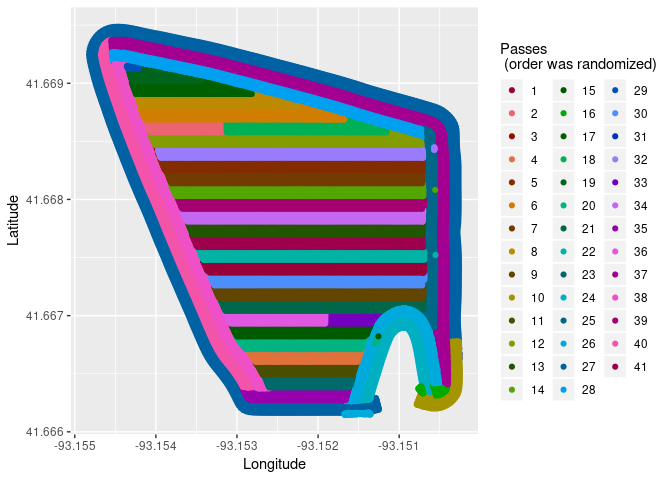
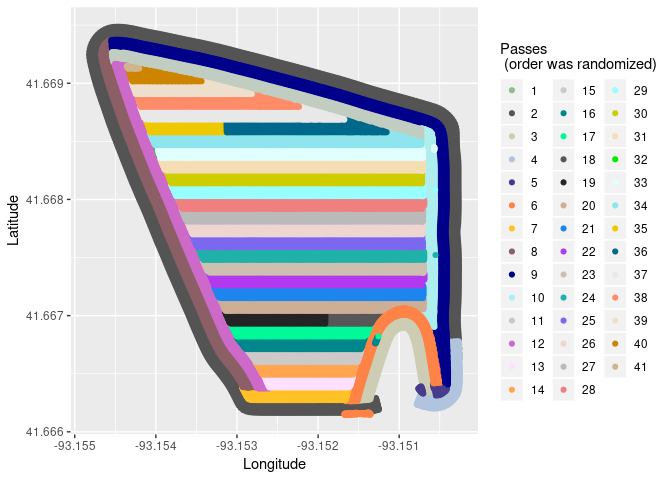
Improving obs per pass calculation and discarding pass_scramble for visualization.

diff --git a/Process_script.md b/Process_script.md
@@ -46,11 +46,11 @@ about 30 seconds to import the original shapefile.
 
 ``` r
 # Importing the shapefile
-seeding_shapefile <- readOGR(dsn = files[5], layer = "Merriweather Farms-JT-01-Corn", pointDropZ = TRUE)
+seeding_shapefile <- readOGR(dsn = files[4], pointDropZ = T)
 ```
 
     ## OGR data source with driver: ESRI Shapefile 
-    ## Source: "/tmp/Rtmpf5M2Qf/doc/Merriweather Farms-JT-01-Corn.shx", layer: "Merriweather Farms-JT-01-Corn"
+    ## Source: "/tmp/RtmprEJgXU/doc/Merriweather Farms-JT-01-Corn.shp", layer: "Merriweather Farms-JT-01-Corn"
     ## with 63761 features
     ## It has 10 fields
 
@@ -83,33 +83,28 @@ work_copy@data <- work_copy@data %>%
 ## Calculating observations per pass
 
 Another useful attribute for grouping or subsetting is knowing the
-number of observations per pass. This code also creates a random order
-of pass numbers (`pass_scramble`) which is useful for later
-visualization.
-
-We first create a new file, `obs_pass`, with the variables mentioned
-above.
+number of observations per pass. This can be added with
+`dplyr::add_tally` which perform
 
 ``` r
-obs_pass <- work_copy@data %>%
+work_copy@data <- work_copy@data %>%
   group_by(pass_num) %>%
-  summarize(obs_per_pass = n()) %>%
-  mutate(pass_scramble = factor(sample(pass_num)))
+  add_tally(pass_num) %>% 
+  ungroup()
 ```
 
-## Joining new data to seeding shapefile
+## Cleaning up temp columns
 
 This chunk:
 
-  - Joins the `obs_pass` file to the seeding shapefile.
   - Removes `datetime`, `diff1`, and `indicator` variables.
-  - Makes actual pass numbers variable, `pass_num`, a factor.
+  - Makes actual pass numbers variable, `pass_num`, a factor for
+    plotting.
 
 <!-- end list -->
 
 ``` r
 work_copy@data <- work_copy@data %>%
-  left_join(obs_pass, by = "pass_num") %>%
   select(-datetime, -diff1, -indicator) %>%
   mutate(pass_factor = factor(pass_num))
 ```
@@ -132,15 +127,12 @@ work_copy@data <- work_copy@data %>%
 
 ## Ploting final version
 
-The variable `pass_scramble` is used for coloring to help with
-visualization.
-
 ``` r
 # Using a subset for faster display
-ggplot(filter(work_copy@data, pass_num %in% 20:25), 
-       aes(x = coords.x1, y = coords.x2, color = pass_scramble)) +
+filter(work_copy@data, pass_num %in% 20:25) %>% 
+  ggplot(., aes(x = coords.x1, y = coords.x2, color = pass_factor)) +
   geom_point() +
-  scale_color_hue(h = c(0, 360), c = 100, l = c(30, 60)) +
+  scale_color_manual(values = sample(colors(nlevels(work_copy$pass_factor)))) +
   labs(x = "Longitude",
        y = "Latitude",
        color = "Passes \n (order was randomized)")
@@ -150,9 +142,9 @@ ggplot(filter(work_copy@data, pass_num %in% 20:25),
 
 ``` r
 # Plotting the entire shapefile
-ggplot(work_copy@data, aes(x = coords.x1, y = coords.x2, color = pass_scramble)) +
+ggplot(work_copy@data, aes(x = coords.x1, y = coords.x2, color = pass_factor)) +
   geom_point() +
-  scale_color_hue(h = c(0, 360), c = 100, l = c(30, 60)) +
+  scale_color_manual(values = sample(colors(nlevels(work_copy$pass_factor)))) +
   labs(x = "Longitude",
        y = "Latitude",
        color = "Passes \n (order was randomized)")
